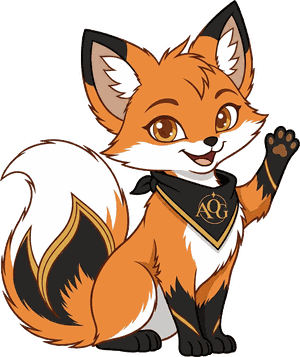
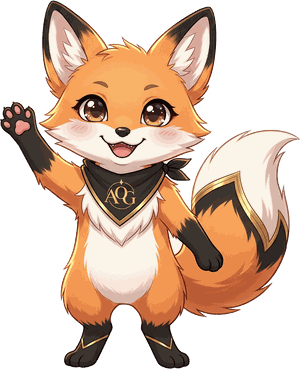
Ubah maskot Aogi ke gaya 2D grafik anime (cel shading), pose tetap beda tiap halaman

diff --git a/IKLAN.md b/IKLAN.md
@@ -115,8 +115,9 @@ MASKOT_SAPAAN = "Halo! Aku Aogi, temanmu di room ini. Yuk masuk 👋"
 | `maskot-peek.png` | 220 px | Pojok kanan bawah room — **pose mengintip** |
 | `maskot.png` | 520 px | Master transparan, untuk bikin ukuran lain |
 
-Gaya gambar: **2D flat vector cartoon** (outline tegas, warna flat), bukan 3D.
-Tiap halaman memakai pose yang berbeda supaya maskot terasa hidup.
+Gaya gambar: **2D grafik anime** — cel shading lembut, mata besar berkilau,
+bukan 3D render. Tiap halaman memakai pose yang berbeda supaya maskot
+terasa hidup.
 
 Semua sudah **berlatar transparan**. Kalau mau ganti maskot, timpa file-file
 di atas dengan gambar PNG transparan berukuran serupa — kode tidak perlu diubah.
